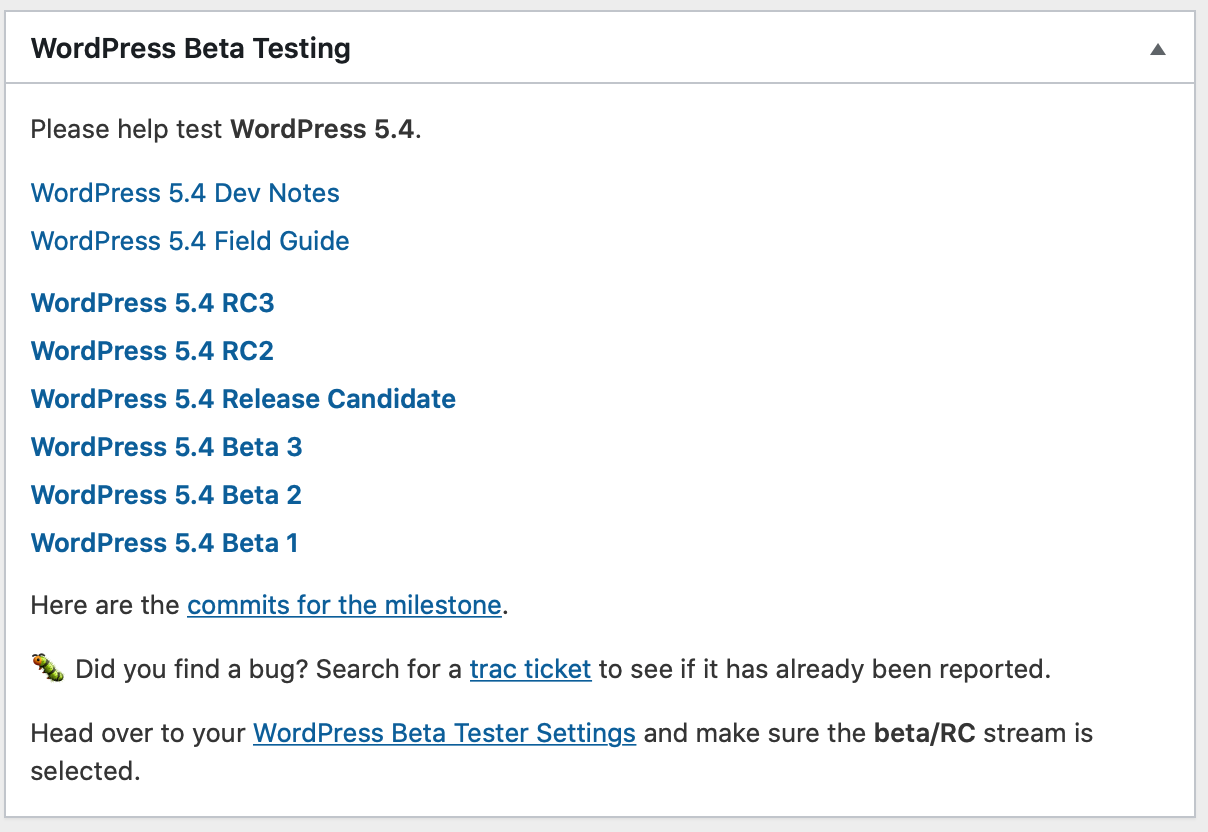
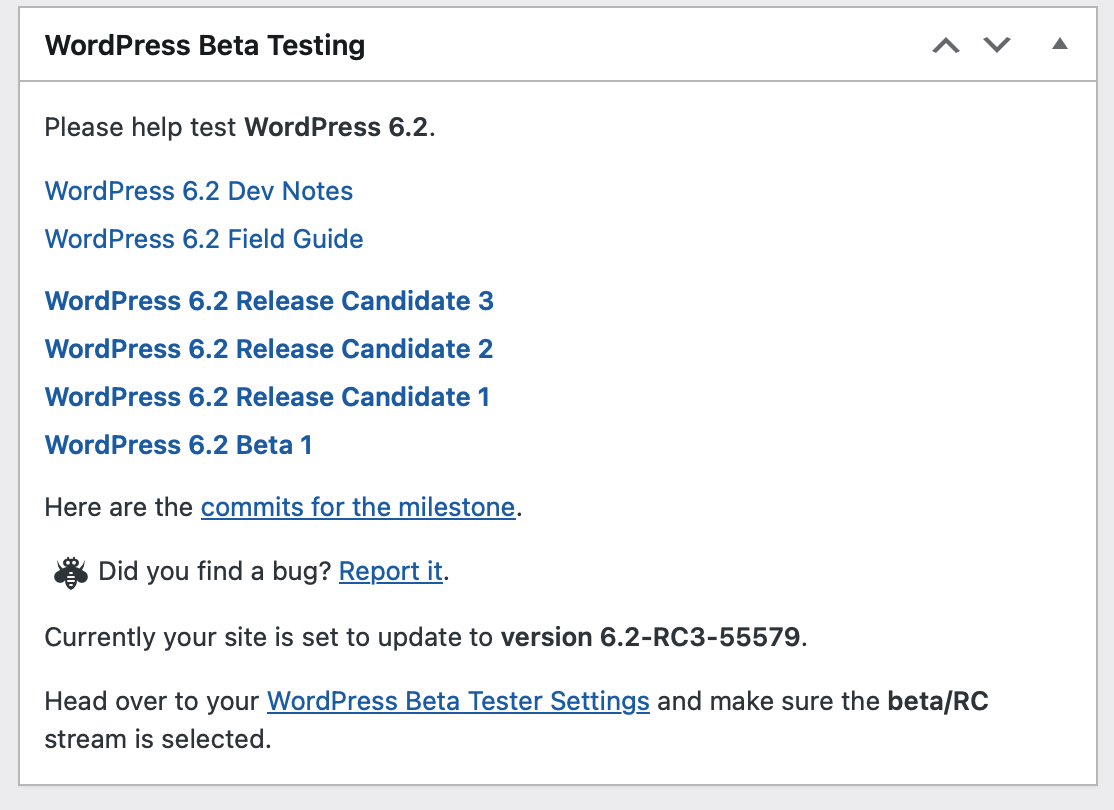
more dynamic info for dashboard widget
oops

diff --git a/src/WPBT/WP_Beta_Tester.php b/src/WPBT/WP_Beta_Tester.php
@@ -296,6 +296,17 @@ class WP_Beta_Tester {
 		$next_version = explode( '-', $wp_version );
 		$milestone    = array_shift( $next_version );
 
+		$bug            = '<span class="dashicons dashicons-buddicons-replies"></span>';
+		$preferred      = $this->get_preferred_from_update_core();
+		$update_version = ( new WPBT_Core( $this, self::$options ) )->get_next_version( $preferred->version );
+		$report_url     = add_query_arg(
+			array(
+				'page' => 'wp-beta-tester',
+				'tab'  => 'wp_beta_tester_bug_report',
+			),
+			is_multisite() ? network_admin_url( 'settings.php' ) : admin_url( 'tools.php' )
+		);
+
 		/* translators: %s: WordPress version */
 		printf( wp_kses_post( '<p>' . __( 'Please help test <strong>WordPress %s</strong>.', 'wordpress-beta-tester' ) . '</p>' ), esc_attr( $milestone ) );
 
@@ -306,15 +317,23 @@ class WP_Beta_Tester {
 		printf( wp_kses_post( '<p>' . __( 'Here are the <a href="%s" target="_blank">commits for the milestone</a>.', 'wordpress-beta-tester' ) . '</p>' ), esc_url( "https://core.trac.wordpress.org/query?status=closed&status=reopened&milestone=$milestone" ) );
 
 		/* translators: %s: link to trac search */
-		printf( wp_kses_post( '<p>' . __( '&#128027; Did you find a bug? Search for a <a href="%s" target="_blank">trac ticket</a> to see if it has already been reported.', 'wordpress-beta-tester' ) . '</p>' ), 'https://core.trac.wordpress.org/search' );
+		printf( wp_kses_post( '<p>' . "&nbsp;$bug&nbsp;" . __( 'Did you find a bug? <a href="%s" target="_blank">Report it</a>.', 'wordpress-beta-tester' ) . '</p>' ), esc_url( $report_url ) );
 
 		$capability = is_multisite() ? 'manage_network_options' : 'manage_options';
 		if ( current_user_can( $capability ) ) {
 			$parent             = is_multisite() ? 'settings.php' : 'tools.php';
 			$wpbt_settings_page = add_query_arg( 'page', 'wp-beta-tester', network_admin_url( $parent ) );
 
-			/* translators: %s: WP Beta Tester settings URL */
-			printf( wp_kses_post( '<p>' . __( 'Head over to your <a href="%s">WordPress Beta Tester Settings</a> and make sure the <strong>beta/RC</strong> stream is selected.', 'wordpress-beta-tester' ) . '</p>' ), esc_url( $wpbt_settings_page ) );
+			printf(
+				/* translators: %s: update version */
+				wp_kses_post( '<p>' . __( 'Currently your site is set to update to <strong>%s</strong>.', 'wordpress-beta-tester' ) . '</p>' ),
+				esc_html( $update_version )
+			);
+
+			if ( 'beta' !== self::$options['stream-option'] ) {
+				/* translators: %s: WP Beta Tester settings URL */
+						printf( wp_kses_post( '<p>' . __( 'Head over to your <a href="%s">WordPress Beta Tester Settings</a> and make sure the <strong>beta/RC</strong> stream is selected.', 'wordpress-beta-tester' ) . '</p>' ), esc_url( $wpbt_settings_page ) );
+			}
 		}
 	}
 

diff --git a/wp-beta-tester.php b/wp-beta-tester.php
@@ -13,7 +13,7 @@
  * Plugin URI:        https://wordpress.org/plugins/wordpress-beta-tester/
  * Description:       Allows you to easily upgrade to Beta releases.
  * Author:            Peter Westwood, Andy Fragen
- * Version:           3.3.4
+ * Version:           3.3.4.1
  * Network:           true
  * Author URI:        https://blog.ftwr.co.uk/
  * Text Domain:       wordpress-beta-tester

diff --git a/CHANGES.md b/CHANGES.md
@@ -1,4 +1,5 @@
 [unreleased]
+* updated dashboard widget with some better dynamic information
 
 #### 3.3.4 / 2023-03-20
 * PHP 5.6 and `EOD`, why we can't have nice looking code in the editor
